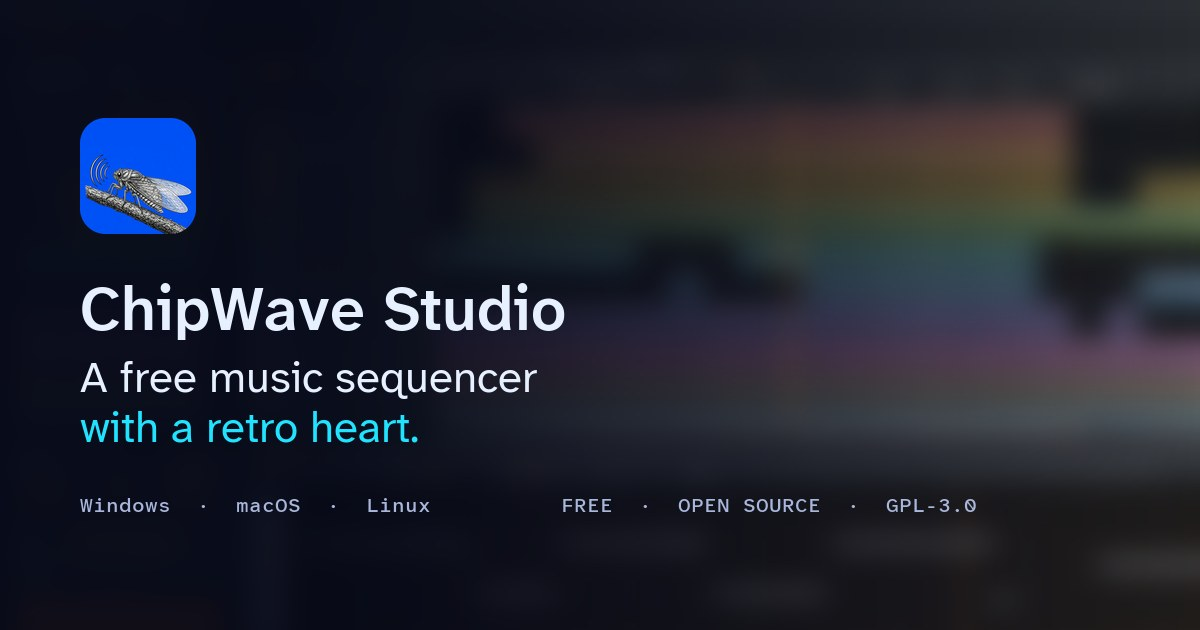
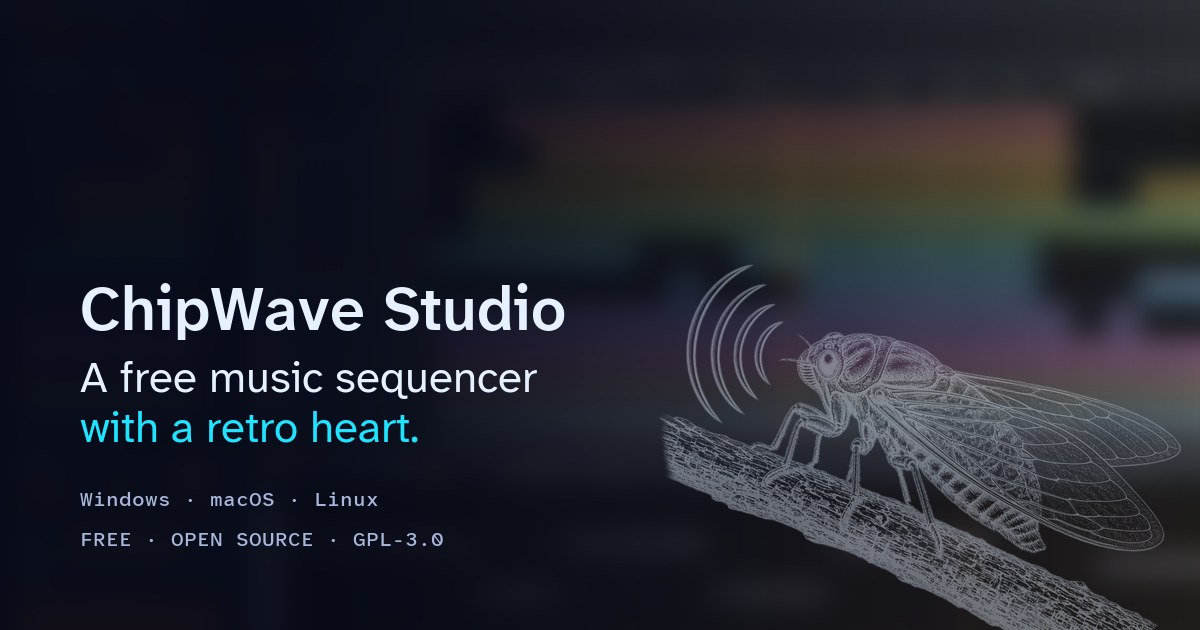
Use the cicada engraving as the site mark: header, footer, hero watermark and social card

diff --git a/public/assets/site.css b/public/assets/site.css
@@ -154,7 +154,7 @@ p { margin: 0; }
   color: var(--text);
   margin-right: auto;
 }
-.brand img { width: 30px; height: 30px; border-radius: 7px; }
+.brand-mark { height: 44px; width: auto; }
 .brand span {
   font-family: var(--mono);
   font-size: 0.86rem;
@@ -239,7 +239,21 @@ p { margin: 0; }
   padding: clamp(38px, 6vw, 76px) 0 clamp(30px, 4vw, 48px);
   position: relative;
 }
+.hero::after {
+  content: "";
+  position: absolute;
+  top: clamp(0px, 3vw, 36px);
+  right: -6%;
+  width: min(48vw, 600px);
+  aspect-ratio: 800 / 602;
+  background: url("/assets/cicada-800.webp") center / contain no-repeat;
+  opacity: 0.06;
+  pointer-events: none;
+  z-index: 0;
+}
 .hero-grid {
+  position: relative;
+  z-index: 1;
   display: grid;
   grid-template-columns: minmax(0, 1fr);
   justify-items: center;
@@ -770,7 +784,7 @@ kbd {
 .site-footer a { color: var(--dim); text-decoration: none; }
 .site-footer a:hover { color: var(--cyan); }
 .footer-brand { display: grid; gap: 10px; justify-items: start; }
-.footer-brand img { width: 40px; height: 40px; border-radius: 9px; }
+.footer-mark { height: 48px; width: auto; }
 .footer-base {
   margin-top: 34px;
   padding-top: 20px;
@@ -882,6 +896,7 @@ kbd {
     gap: 2px;
   }
   .site-header.menu-open .nav a { padding: 12px; font-size: 0.95rem; }
+  .hero::after { display: none; }
   .hero-shot::before { filter: blur(10px); opacity: 0.35; }
 }
 
@@ -890,6 +905,7 @@ kbd {
   .theme-row { grid-template-columns: 1fr; }
   .header-cta .btn--primary { display: none; }
   .brand span { font-size: 0.74rem; letter-spacing: 0.08em; }
+  .brand-mark { height: 34px; }
   .footer-grid { grid-template-columns: 1fr; }
   .section-head { margin-bottom: 26px; }
   .lb-prev { left: 8px; }

diff --git a/public/index.html b/public/index.html
@@ -57,7 +57,7 @@
 <header class="site-header" id="site-header">
   <div class="wrap">
     <a class="brand" href="/" aria-label="ChipWave Studio home">
-      <img src="/assets/icon-32.png" alt="" width="30" height="30">
+      <img class="brand-mark" src="/assets/cicada-400.webp" alt="" width="47" height="36">
       <span><b>ChipWave</b> <em>Studio</em></span>
     </a>
 
@@ -644,7 +644,7 @@
   <div class="wrap">
     <div class="footer-grid">
       <div class="footer-brand">
-        <img src="/assets/icon-180.png" alt="" width="40" height="40">
+        <img class="footer-mark" src="/assets/cicada-400.webp" alt="" width="62" height="47">
         <strong style="color:var(--text);font-family:var(--mono);letter-spacing:0.12em;font-size:0.8rem">CHIPWAVE STUDIO</strong>
         <p>A free music sequencer with a retro heart. Written in Rust with egui and cpal, for Windows, macOS and Linux.</p>
         <p class="hero-note">Was called ChipWave Tracker until 0.2.3.19 — same app, same <code>.cwt</code> songs.</p>

diff --git a/public/404.html b/public/404.html
@@ -11,7 +11,7 @@
 <body>
 <header class="site-header">
   <div class="wrap">
-    <a class="brand" href="/"><img src="/assets/icon-32.png" alt="" width="30" height="30"><span><b>ChipWave</b> <em>Studio</em></span></a>
+    <a class="brand" href="/"><img class="brand-mark" src="/assets/cicada-400.webp" alt="" width="47" height="36"><span><b>ChipWave</b> <em>Studio</em></span></a>
     <div class="header-cta"><a class="btn btn--primary btn--sm" href="/#download">Download free</a></div>
   </div>
 </header>

diff --git a/tools/build_images.py b/tools/build_images.py
@@ -7,7 +7,7 @@ Writes into public/assets: shots/*.webp (1600 + 800 wide), icon pngs, og-image.j
 import sys
 from pathlib import Path
 
-from PIL import Image, ImageDraw, ImageFilter, ImageFont
+from PIL import Image, ImageChops, ImageDraw, ImageFilter, ImageFont, ImageOps
 
 ROOT = Path(__file__).resolve().parents[1]
 PUB = ROOT / "public"
@@ -93,6 +93,28 @@ def main() -> None:
                 webp(im, OUT_MARKETING / f"{slug}-1600.webp", min(1600, im.width), 84)
                 webp(im, OUT_MARKETING / f"{slug}-800.webp", 800, 80)
 
+    # the cicada engraving: the original is black ink on transparent paper, so
+    # invert the luminance to get light line art that shows on the dark page
+    cicada = MEDIA / "cicada-source.png"
+    if cicada.exists():
+        with Image.open(cicada) as im:
+            im = im.convert("RGBA")
+            alpha = im.split()[3]
+            ink = ImageChops.multiply(
+                ImageOps.invert(im.convert("L")).point(lambda v: min(255, int(v * 1.12))),
+                alpha,
+            )
+            pad = int(max(im.size) * 0.025)
+            white = Image.new("RGBA", im.size, (228, 240, 255, 255))
+            white.putalpha(ink)
+            art = Image.new("RGBA", (im.width + pad * 2, im.height + pad * 2), (228, 240, 255, 0))
+            art.alpha_composite(white, (pad, pad))
+            art.save(OUT / "cicada.png")
+            for w in (800, 400):
+                h = round(art.height * w / art.width)
+                art.resize((w, h), Image.LANCZOS).save(OUT / f"cicada-{w}.webp", "WEBP", quality=92, method=6)
+                print(f"  cicada-{w}.webp  {w}x{h}")
+
     if missing:
         print("MISSING:")
         for m in missing:
@@ -122,8 +144,12 @@ def main() -> None:
     og = Image.alpha_composite(og.convert("RGBA"), shade).convert("RGB")
     draw = ImageDraw.Draw(og)
 
-    icon = Image.open(ICONS / "chipwave_studio_256.png").convert("RGBA").resize((116, 116), Image.LANCZOS)
-    og.paste(icon, (80, 118), icon)
+    # the cicada engraving, large and faint, on the right of the card
+    art = Image.open(OUT / "cicada.png").convert("RGBA")
+    art = art.resize((560, round(art.height * 560 / art.width)), Image.LANCZOS)
+    faded = art.copy()
+    faded.putalpha(faded.split()[3].point(lambda v: int(v * 0.42)))
+    og.paste(faded, (640, 245), faded)
 
     def font(name, size):
         p = FONTS / name
@@ -132,8 +158,10 @@ def main() -> None:
     draw.text((80, 268), "ChipWave Studio", font=font("AtkinsonHyperlegibleNext-SemiBold.ttf", 62), fill=(230, 240, 255))
     draw.text((80, 348), "A free music sequencer", font=font("AtkinsonHyperlegibleNext-Regular.ttf", 44), fill=(230, 240, 255))
     draw.text((80, 398), "with a retro heart.", font=font("AtkinsonHyperlegibleNext-Regular.ttf", 44), fill=(34, 227, 255))
-    draw.text((80, 492), "Windows  ·  macOS  ·  Linux          FREE  ·  OPEN SOURCE  ·  GPL-3.0",
-              font=font("AtkinsonHyperlegibleMono-Medium.ttf", 20), fill=(169, 183, 220))
+    meta_font = font("AtkinsonHyperlegibleMono-Medium.ttf", 20)
+    draw.text((80, 486), "Windows \u00b7 macOS \u00b7 Linux", font=meta_font, fill=(169, 183, 220))
+    draw.text((80, 526), "FREE \u00b7 OPEN SOURCE \u00b7 GPL-3.0", font=meta_font, fill=(169, 183, 220))
+
     og.save(OUT / "og-image.jpg", "JPEG", quality=88, optimize=True)
     print("og done")
 

diff --git a/README.md b/README.md
@@ -15,7 +15,7 @@ public/            the whole site (this is what gets published)
   assets/video/    the 0.2.16.0 promo, served from this site
   assets/fonts/    Atkinson Hyperlegible Next + Mono (OFL 1.1)
   404.html  robots.txt  sitemap.xml
-media-src/         the original marketing artwork the site uses
+media-src/         the original marketing artwork and the cicada engraving the site uses
 tools/
   build_images.py     rebuilds assets/shots, assets/marketing, icons and the social image
   deploy_netlify.py   creates/updates the Netlify site and attaches the domain
@@ -81,6 +81,7 @@ stops it.
   (the themes, for example, are `SLATE`, `DARK` and `AMIGA` in `src/theme.rs` —
   Slate is the default, and the page used to say there were only two).
 - Pictures are real captures; keep it that way.
+- The cicada in the header, footer, hero and social card is `media-src/cicada-source.png`, re-inked by `build_images.py` into white line art for the dark page.
 - The promo in `public/assets/video/` is the 62 MB 0.2.16.0 MP4 from the media
   folder. It is committed so every deploy carries it; `preload="none"` means a
   visitor only downloads it after pressing play. Compress it before swapping in a
